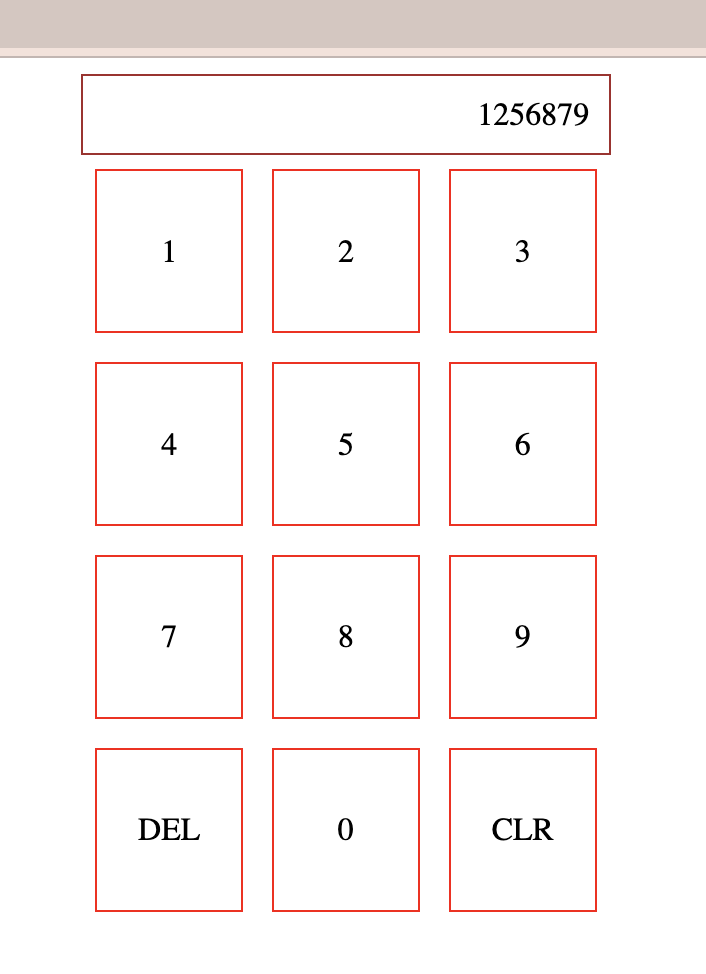
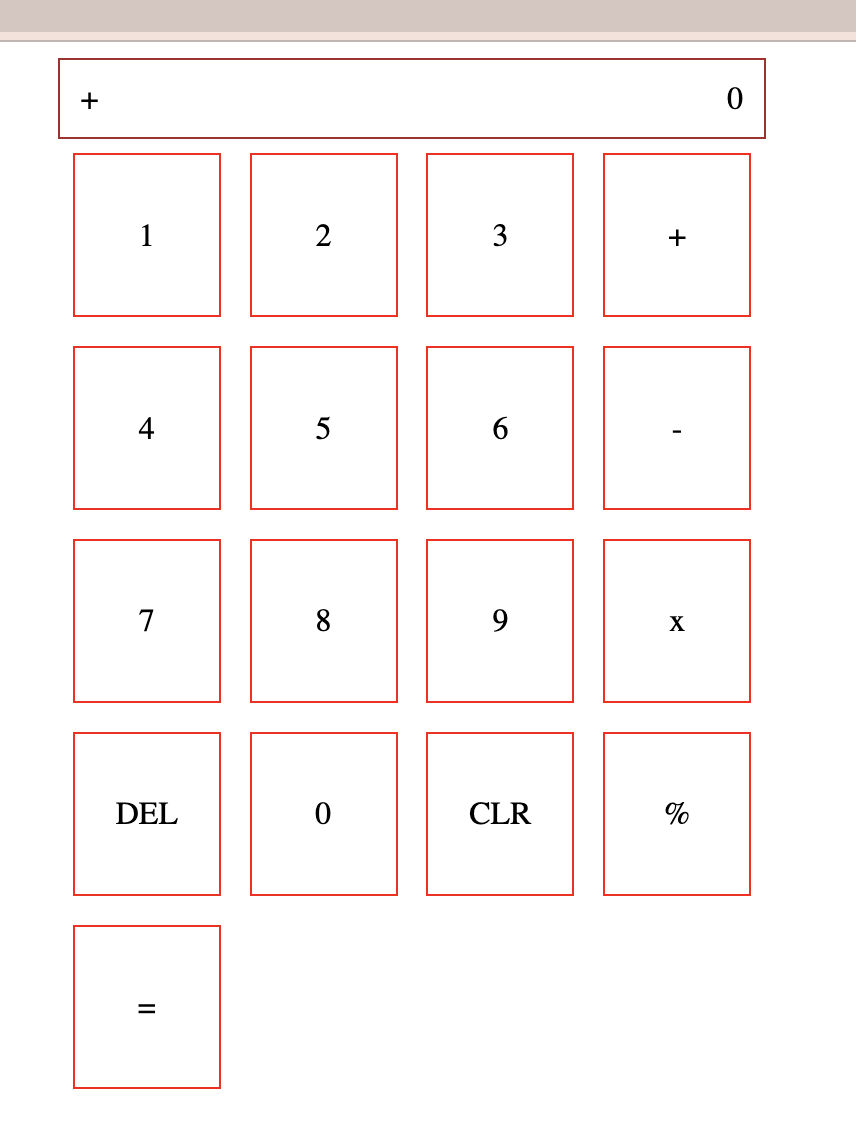
Bài tập tuần 2

diff --git a/excercise/week2/w2.md b/excercise/week2/w2.md
@@ -7,9 +7,19 @@
 </ol>
 
 ## II. Yêu cầu
+Câu 1:
 <ol>
-    <li>Dữ liệu text, hình ảnh cần thiết đã có trong thư mục của để thi</li>
-    <li>Làm giống như các giao diện mẫu</li>
-    <li>Mã màu tự lấy theo từ ảnh chụp giao diện</li>
-    <li>Câu 4: Click lên 3 liên kết để link với 3 câu làm tương ứng</li>
+    <li>1,Dựng màn hình như yêu cầu</li>
+    <li>2,Khi ấn vào các nút thì số sẽ hiện lên trên</li>
+    <li>3,Ấn DEL để xóa ký tự cuối</li>
+    <li>4,Ấn CLR để xóa toàn bộ</li>
+    <li>Thực hiện các phép toán +,-,x,% như 1 chiếc máy tính</li>
+</ol>
+
+
+Câu 2:
+<ol>
+    <li>Dựng màn hình như yêu cầu</li>
+    <li>Khi hover chuột qua nút không thì nút không sẽ nhảy sang vị trí khác => Không cho người dùng ấn được nút không</li>
+    <li>Ấn có hiện ra dòng text: "Tớ biết mà =))"</li>
 </ol>
